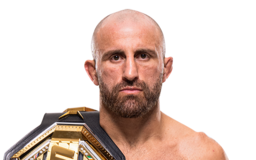
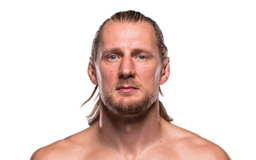
Fix Volkov photo (was Volkanovski), remove blue gradients, add FLY/STR filter buttons, fix hero padding bug

Changed region(s): [[0.0, 0.0625, 0.875, 1.0], [0.7812, 0.9375, 0.9062, 1.0], [0.6875, 0.9688, 0.75, 1.0]]

diff --git a/style.css b/style.css
@@ -224,7 +224,7 @@ main {
   top: 0; left: 0; right: 0; bottom: 0;
   background:
     radial-gradient(ellipse at 15% 50%, rgba(214,40,40,0.14) 0%, transparent 55%),
-    radial-gradient(ellipse at 85% 50%, rgba(59,130,246,0.08) 0%, transparent 55%);
+    radial-gradient(ellipse at 85% 50%, rgba(201,168,76,0.07) 0%, transparent 55%);
   pointer-events: none;
   z-index: 0;
 }
@@ -282,7 +282,7 @@ main {
 }
 
 .hero-fighter--right {
-  background: linear-gradient(180deg, rgba(59,130,246,0.06) 0%, transparent 100%);
+  background: linear-gradient(180deg, rgba(201,168,76,0.05) 0%, transparent 100%);
 }
 
 .hero-fighter-photo {
@@ -524,7 +524,7 @@ main {
 }
 
 .fight-faceoff-fighter.f2 {
-  background: linear-gradient(225deg, rgba(59,130,246,0.08) 0%, transparent 60%);
+  background: linear-gradient(225deg, rgba(201,168,76,0.06) 0%, transparent 60%);
 }
 
 .fight-faceoff-photo {
@@ -1552,10 +1552,6 @@ main {
     padding: 12px 16px;
     font-size: 13px;
     min-height: 44px;
-  }
-
-  .hero-banner {
-    padding: 18px 16px;
   }
 
   .sim-selectors {

diff --git a/index.html b/index.html
@@ -135,6 +135,8 @@
       <button class="filter-btn" data-filter="Welterweight">WW</button>
       <button class="filter-btn" data-filter="Lightweight">LW</button>
       <button class="filter-btn" data-filter="Featherweight">FW</button>
+      <button class="filter-btn" data-filter="Flyweight">FLY</button>
+      <button class="filter-btn" data-filter="Strawweight">STR</button>
     </div>
     <div id="fighters-container">
       <div class="loader">
